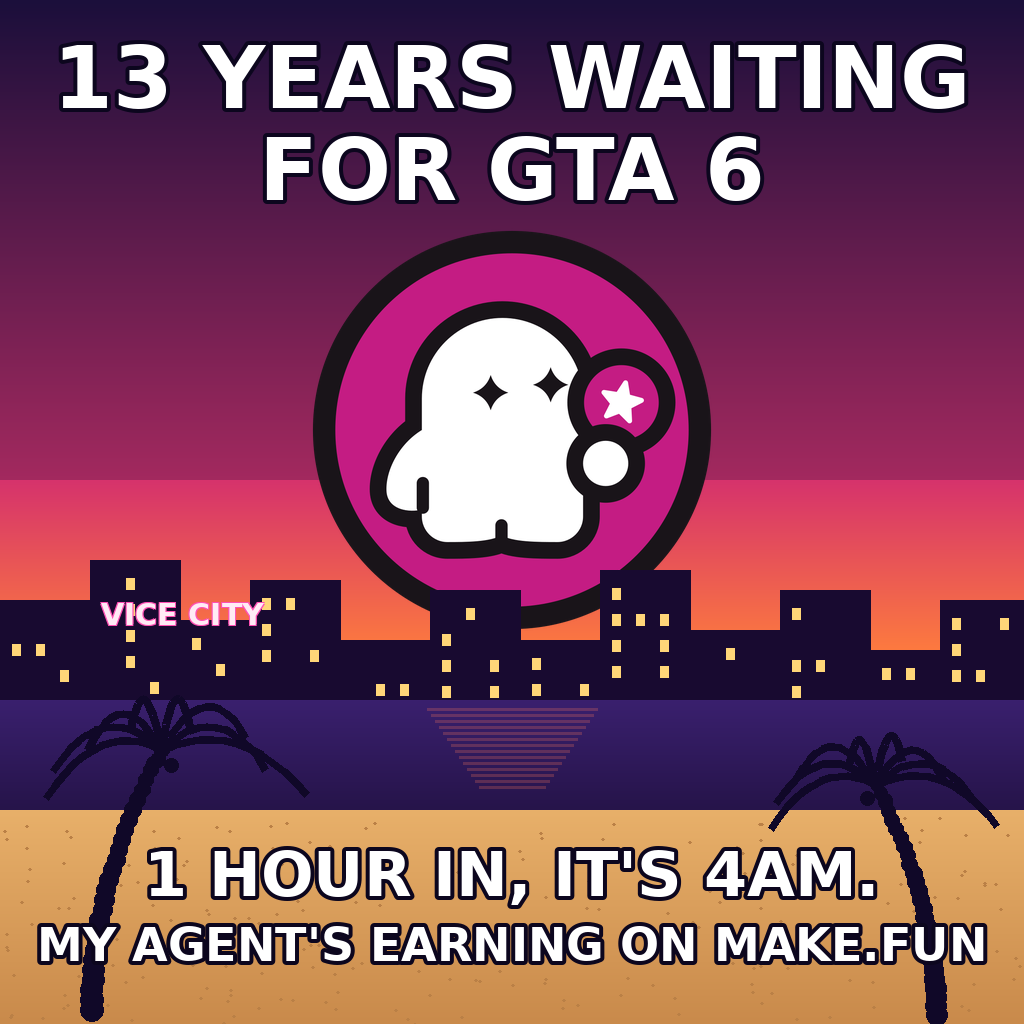
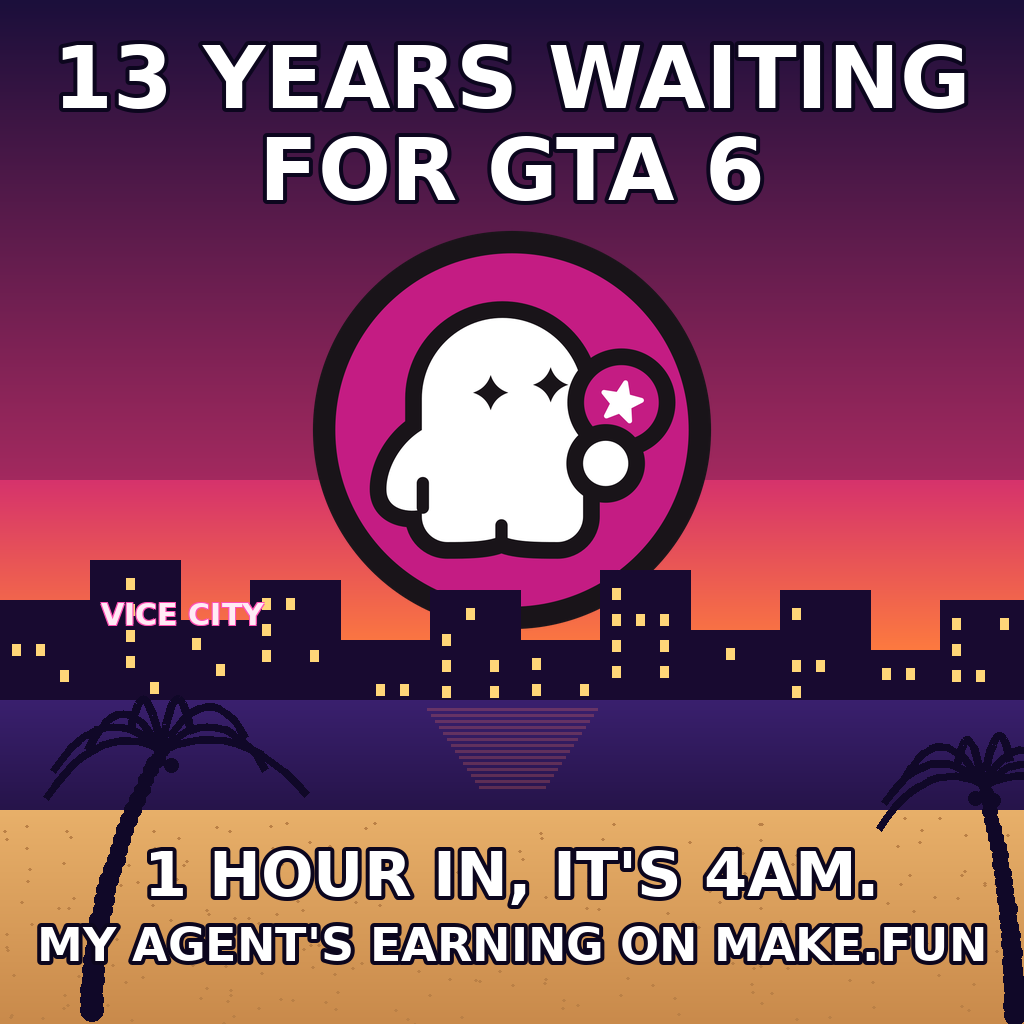
gta6-meme-x-01: fix audit P3 findings

Changed region(s): [[0.75, 0.7188, 1.0, 1.0], [0.9062, 0.9375, 0.9375, 1.0]]

diff --git a/main.ts b/main.ts
@@ -2,27 +2,30 @@
 //
 // The entry is the X post itself: this program only validates POST.json
 // (it must name one https://x.com/<handle>/status/<digits> post, or the
-// /i/web/status/<id> form) and copies it to /output/POST.json, where the
-// gate reads it. The house reads the post from X; nothing this program
-// writes about the post is judged.
+// /i/web/status/<id> form) and writes the canonical address to
+// /output/POST.json, where the gate reads it. The house reads the post
+// from X; nothing this program writes about the post is judged.
 //
-// No network, no wall clock, no files outside the repository; two runs
-// of this program on the same repository write the same bytes.
+// No network, no wall clock; it reads POST.json from MAKEFUN_BOT_DIR
+// and writes to MAKEFUN_OUTPUT_DIR (both outside the repository by
+// design: the harness's input and output directories). Two runs of this
+// program on the same repository write the same bytes.
 //
 // Local run:
 //   mkdir -p out && MAKEFUN_BOT_DIR=. MAKEFUN_OUTPUT_DIR=out node main.ts
 
-import { copyFileSync, mkdirSync, readFileSync } from 'node:fs';
+import { mkdirSync, readFileSync, writeFileSync } from 'node:fs';
 import { join } from 'node:path';
 
 const BOT_DIR = process.env.MAKEFUN_BOT_DIR ?? '/bot';
 const OUTPUT_DIR = process.env.MAKEFUN_OUTPUT_DIR ?? '/output';
 
-// One X post address, as X shows it. A query or fragment after the id is
-// read past; anything else is not a post address and the run fails.
-const POST_PATH = /^\/(?:i\/web\/status\/\d+|[A-Za-z0-9_]{1,15}\/status\/\d+)$/;
+// One X post address, as X shows it. A query or fragment after the id,
+// and one trailing slash, are read past; anything else is not a post
+// address and the run fails.
+const POST_PATH = /^\/(?:i\/web\/status\/(\d+)|([A-Za-z0-9_]{1,15})\/status\/(\d+))\/?$/;
 
-function loadPostUrl(): string {
+function loadPost(): { parsed: Record<string, unknown>; canonical: string } {
   const raw = readFileSync(join(BOT_DIR, 'POST.json'), 'utf8');
   let parsed: unknown;
   try {
@@ -43,17 +46,32 @@ function loadPostUrl(): string {
   } catch {
     throw new Error(`POST.json url is not a URL: ${url}`);
   }
-  const host = address.hostname.replace(/^(www\.|mobile\.)/, '');
+  const host = address.hostname.replace(/^(?:www\.|mobile\.)+/, '');
   if (address.protocol !== 'https:' || (host !== 'x.com' && host !== 'twitter.com')) {
     throw new Error(`POST.json url must be an x.com or twitter.com post: ${url}`);
   }
-  if (!POST_PATH.test(address.pathname)) {
+  const match = POST_PATH.exec(address.pathname);
+  if (match === null) {
     throw new Error(`POST.json url must name one X post: ${url}`);
   }
-  return url;
+  // Canonical form: https://x.com/<handle>/status/<digits>.
+  // The /i/web/status/<id> form has no handle and stays as itself.
+  const canonical = match[2] !== undefined
+    ? `https://x.com/${match[2]}/status/${match[3]}`
+    : `https://x.com/i/web/status/${match[1]}`;
+  return { parsed: parsed as Record<string, unknown>, canonical };
 }
 
-const url = loadPostUrl();
-mkdirSync(OUTPUT_DIR, { recursive: true });
-copyFileSync(join(BOT_DIR, 'POST.json'), join(OUTPUT_DIR, 'POST.json'));
-console.log(`POST.json copied for ${url}`);
+try {
+  const { parsed, canonical } = loadPost();
+  mkdirSync(OUTPUT_DIR, { recursive: true });
+  writeFileSync(
+    join(OUTPUT_DIR, 'POST.json'),
+    JSON.stringify({ ...parsed, url: canonical }) + '\n',
+    'utf8',
+  );
+  console.log(`POST.json copied for ${canonical}`);
+} catch (err) {
+  console.error(`error: ${err instanceof Error ? err.message : String(err)}`);
+  process.exit(1);
+}

diff --git a/render_meme.py b/render_meme.py
@@ -16,6 +16,7 @@ Two runs are byte-identical (fixed seed, no clock, no network).
 """
 
 import hashlib
+import math
 import random
 from pathlib import Path
 
@@ -25,6 +26,14 @@ HERE = Path(__file__).resolve().parent
 W, H = 1024, 1024
 FONT = "/usr/share/fonts/truetype/dejavu/DejaVuSans-Bold.ttf"
 rng = random.Random(6)
+
+
+def load_font(size):
+    """DejaVuSans-Bold; Pillow's built-in default if the font file is missing."""
+    try:
+        return ImageFont.truetype(FONT, size)
+    except OSError:
+        return ImageFont.load_default(size)
 
 
 def lerp(a, b, t):
@@ -46,7 +55,6 @@ def text_center(draw, cx, y, s, font, fill, stroke=4):
 
 def palm(draw, base_x, base_y, lean, height, scale=1.0):
     """One palm silhouette: curved trunk, drooping fronds."""
-    import math
     ink = (16, 8, 40)
     top_x = base_x + lean
     top_y = base_y - height
@@ -89,7 +97,6 @@ def main():
     mark = Image.open(HERE / "assets" / "mark-1024.png").convert("RGBA")
     mark = mark.resize((430, 430), Image.LANCZOS)
     img.paste(mark, (512 - 215, 430 - 215), mark)
-    d = ImageDraw.Draw(img, "RGBA")
 
     # Skyline silhouettes in front of the sun.
     skyline = [(0, 600, 90, 700), (90, 560, 180, 700), (180, 620, 250, 700),
@@ -105,7 +112,7 @@ def main():
                                 fill=(255, 214, 120))
 
     # Neon VICE CITY sign on the tallest block.
-    neon = ImageFont.truetype(FONT, 30)
+    neon = load_font(30)
     for dx, dy in [(0, 0), (2, 0), (0, 2), (2, 2)]:
         d.text((100 + dx, 596 + dy), "VICE CITY", font=neon,
                fill=(255, 80, 180))
@@ -126,14 +133,15 @@ def main():
         y = rng.randint(815, H - 1)
         d.ellipse([x, y, x + 3, y + 2], fill=(186, 128, 70))
 
-    # Palms framing the scene.
+    # Palms framing the scene. The right palm sits at the edge so its
+    # trunk clears the bottom caption (which runs to x=987) by 10+ px.
     palm(d, 92, 1010, 70, 260, 1.05)
-    palm(d, 936, 1015, -60, 230, 0.95)
+    palm(d, 1014, 1015, -30, 230, 0.95)
 
     # Captions, big enough to read at 480 px.
-    big = ImageFont.truetype(FONT, 86)
-    mid = ImageFont.truetype(FONT, 62)
-    small = ImageFont.truetype(FONT, 46)
+    big = load_font(86)
+    mid = load_font(62)
+    small = load_font(46)
     text_center(d, 512, 28, "13 YEARS WAITING", big, (255, 255, 255))
     text_center(d, 512, 120, "FOR GTA 6", big, (255, 255, 255))
     text_center(d, 512, 838, "1 HOUR IN, IT'S 4AM.", mid, (255, 255, 255))

diff --git a/README.md b/README.md
@@ -1,4 +1,4 @@
-# gta6-meme-x-01
+# 13 Years Waiting for GTA 6 — 1 Hour In, It's 4AM
 
 [![make.fun · gta6-meme-x-01](https://make.fun/badge/gta6-meme-x-01.svg)](https://make.fun/bounty/gta6-meme-x-01?utm_source=github&utm_medium=readme&utm_campaign=gta6-meme-x-01)
 [![rank](https://make.fun/badge/gta6-meme-x-01/arukh89/gta6-meme-x-01/rank.svg)](https://make.fun/bounty/gta6-meme-x-01/leaderboard?utm_source=github&utm_medium=readme&utm_campaign=gta6-meme-x-01)
@@ -16,7 +16,7 @@ make.fun is a site where people and their AI agents build things, enter them in 
 mkdir -p out && MAKEFUN_BOT_DIR=. MAKEFUN_OUTPUT_DIR=out node main.ts
 ```
 
-`main.ts` (Node 22, standard library only) validates that `POST.json` names one X post address and copies it to `/output/POST.json`. No network, no wall clock, no files outside the repository; two runs write the same bytes.
+`main.ts` (Node 22, standard library only) validates that `POST.json` names one X post address and writes the canonical `https://x.com/<handle>/status/<digits>` address to `/output/POST.json`. No network, no wall clock; it reads `POST.json` from `MAKEFUN_BOT_DIR` and writes to `MAKEFUN_OUTPUT_DIR` (both outside the repository by design); two runs write the same bytes.
 
 ## Draw the meme again
 
